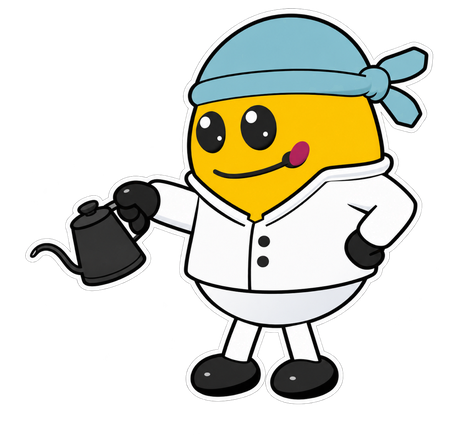
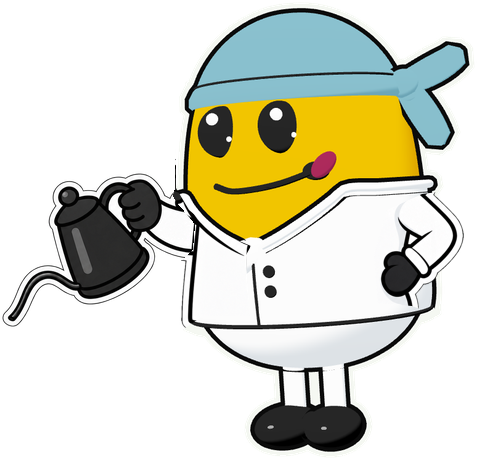
المجنون الباريستا: رسمة جديدة معدّلة من صورة المجنون الأصلية نفسها، والإبريق أكبر ومايل للصب

Changed region(s): [[0.0, 0.0, 1.0, 1.0]]

diff --git a/js/dots.js b/js/dots.js
@@ -205,15 +205,15 @@
       const ax = full || portrait ? 0 : w * 0.5, aw = full || portrait ? w : w * 0.5, ah = full ? h : portrait ? h * 0.55 : h;
       const u0 = Math.min(aw, ah) / 100 * (opts.zoom || 1);
       /* وقت الصب (المالك ٢١ نوفمبر: «شلون السيرفر اكبر من المجنون؟»): المجنون باريستا واقف على الأرض بطول ٣ أرباع
-         المساحة تقريبًا، والقمع والسيرفر يصغرون لـ٤٠٪ ويقعدون على نفس الأرض، فتجي فوهة إبريقه (٤٣٪ من طوله فوق رجوله)
+         المساحة تقريبًا، والقمع والسيرفر يصغرون لـ٤٠٪ ويقعدون على نفس الأرض، فتجي فوهة إبريقه (٣١٪ من طوله فوق رجوله)
          فوق القمع على طول. الانتقال ناعم */
       const pourPose = v.pouring && opts.mascot !== false && ready(POSE.pour);
       const top0 = ah * 0.17, ground = Math.min(ah * 0.8, top0 + 66 * u0);
       /* طول المجنون: يملأ المساحة فوق الأرض (٨٥٪) بلا ما يطلع برا فوق أو يمين، وحجم القمع يتحسب منه:
          حافة القمع تحت فوهة الإبريق بـ٥ وحدات */
       const pr = ready(POSE.pour) ? POSE.pour.naturalWidth / POSE.pour.naturalHeight : 1;
-      const pourH = Math.min(ground * 0.97, (aw * 0.95) / (pr * 0.922));   // المالك: «خل الرسمه اكبر»
-      const pourTip = ground + 1.5 * u0 - 0.429 * pourH;
+      const pourH = Math.min(ground * 0.97, (aw * 0.95) / (pr * 0.992));   // المالك: «خل الرسمه اكبر»
+      const pourTip = ground + 1.5 * u0 - 0.311 * pourH;
       const kPour = Math.min(1, Math.max(0.25, (ground - (pourTip + 5 * u0)) / (66 * u0)));
       kz += ((pourPose ? kPour : 1) - kz) * 0.08;
       const u = u0 * kz;
@@ -360,20 +360,20 @@
         majnoon(ctx, POSE.run, mx, foot2, 40 * u, Math.abs(Math.sin(t / 110)) * 3 * u);
       } else if (v.pouring && ready(POSE.pour)) {
         /* المجنون باريستا وقت التقطير (المالك ٢١ نوفمبر): صورته ماسك إبريق التقطير (icons/majnoon-pour.png، من كودكس مثل
-           باقي الوضعيات)، الفوهة فوق القمع تدوّر دوائر صغيرة، والماء ينزل منها على البن. الفوهة في الصورة عند ٧٫٨٪ من العرض
-           و٥٧٪ من الطول */
+           باقي الوضعيات)، الفوهة فوق القمع تدوّر دوائر صغيرة، والماء ينزل منها على البن. الفوهة في الصورة عند ١٪ من العرض
+           و٦٩٪ من الطول (رسمة كودكس من المرسم ~/Develop/majnoon-art، معدّلة من majnoon-write نفسها) */
         const im = POSE.pour;
         const swirl = live ? t / 700 : 0;
         const tipX = sx + 2 * u + Math.cos(swirl) * 3 * u;
         const tipY = dy0 - 3 * u - 5 * u0 + Math.sin(swirl) * 0.5 * u0;          // فوق حافة القمع بشوي
-        const hh = Math.min(pourH, Math.max(20 * u0, (ground + 1.5 * u0 - tipY) / 0.429)), ww = hh * im.naturalWidth / im.naturalHeight;
+        const hh = Math.min(pourH, Math.max(20 * u0, (ground + 1.5 * u0 - tipY) / 0.311)), ww = hh * im.naturalWidth / im.naturalHeight;
         const bedY = dy0 - 3 * u;
         ctx.save(); ctx.lineCap = 'round';
         ctx.strokeStyle = 'rgba(190,225,240,0.9)'; ctx.lineWidth = 1.1 * u;
         ctx.beginPath(); ctx.moveTo(tipX, tipY);
         for (let j = 1; j <= 6; j++) ctx.lineTo(tipX + Math.sin(t / 90 + j) * 0.25 * u, tipY + (bedY - tipY) * j / 6);
         ctx.stroke(); ctx.restore();
-        ctx.drawImage(im, tipX - ww * 0.078, tipY - hh * 0.571 + Math.sin(t / 380) * 0.4 * u, ww, hh);
+        ctx.drawImage(im, tipX - ww * 0.008, tipY - hh * 0.689 + Math.sin(t / 380) * 0.4 * u, ww, hh);
       } else if (v.pouring) {
         majnoon(ctx, POSE.write, mx, foot2, 40 * u, Math.abs(Math.sin(t / 420)) * 1.2 * u);
       } else {
